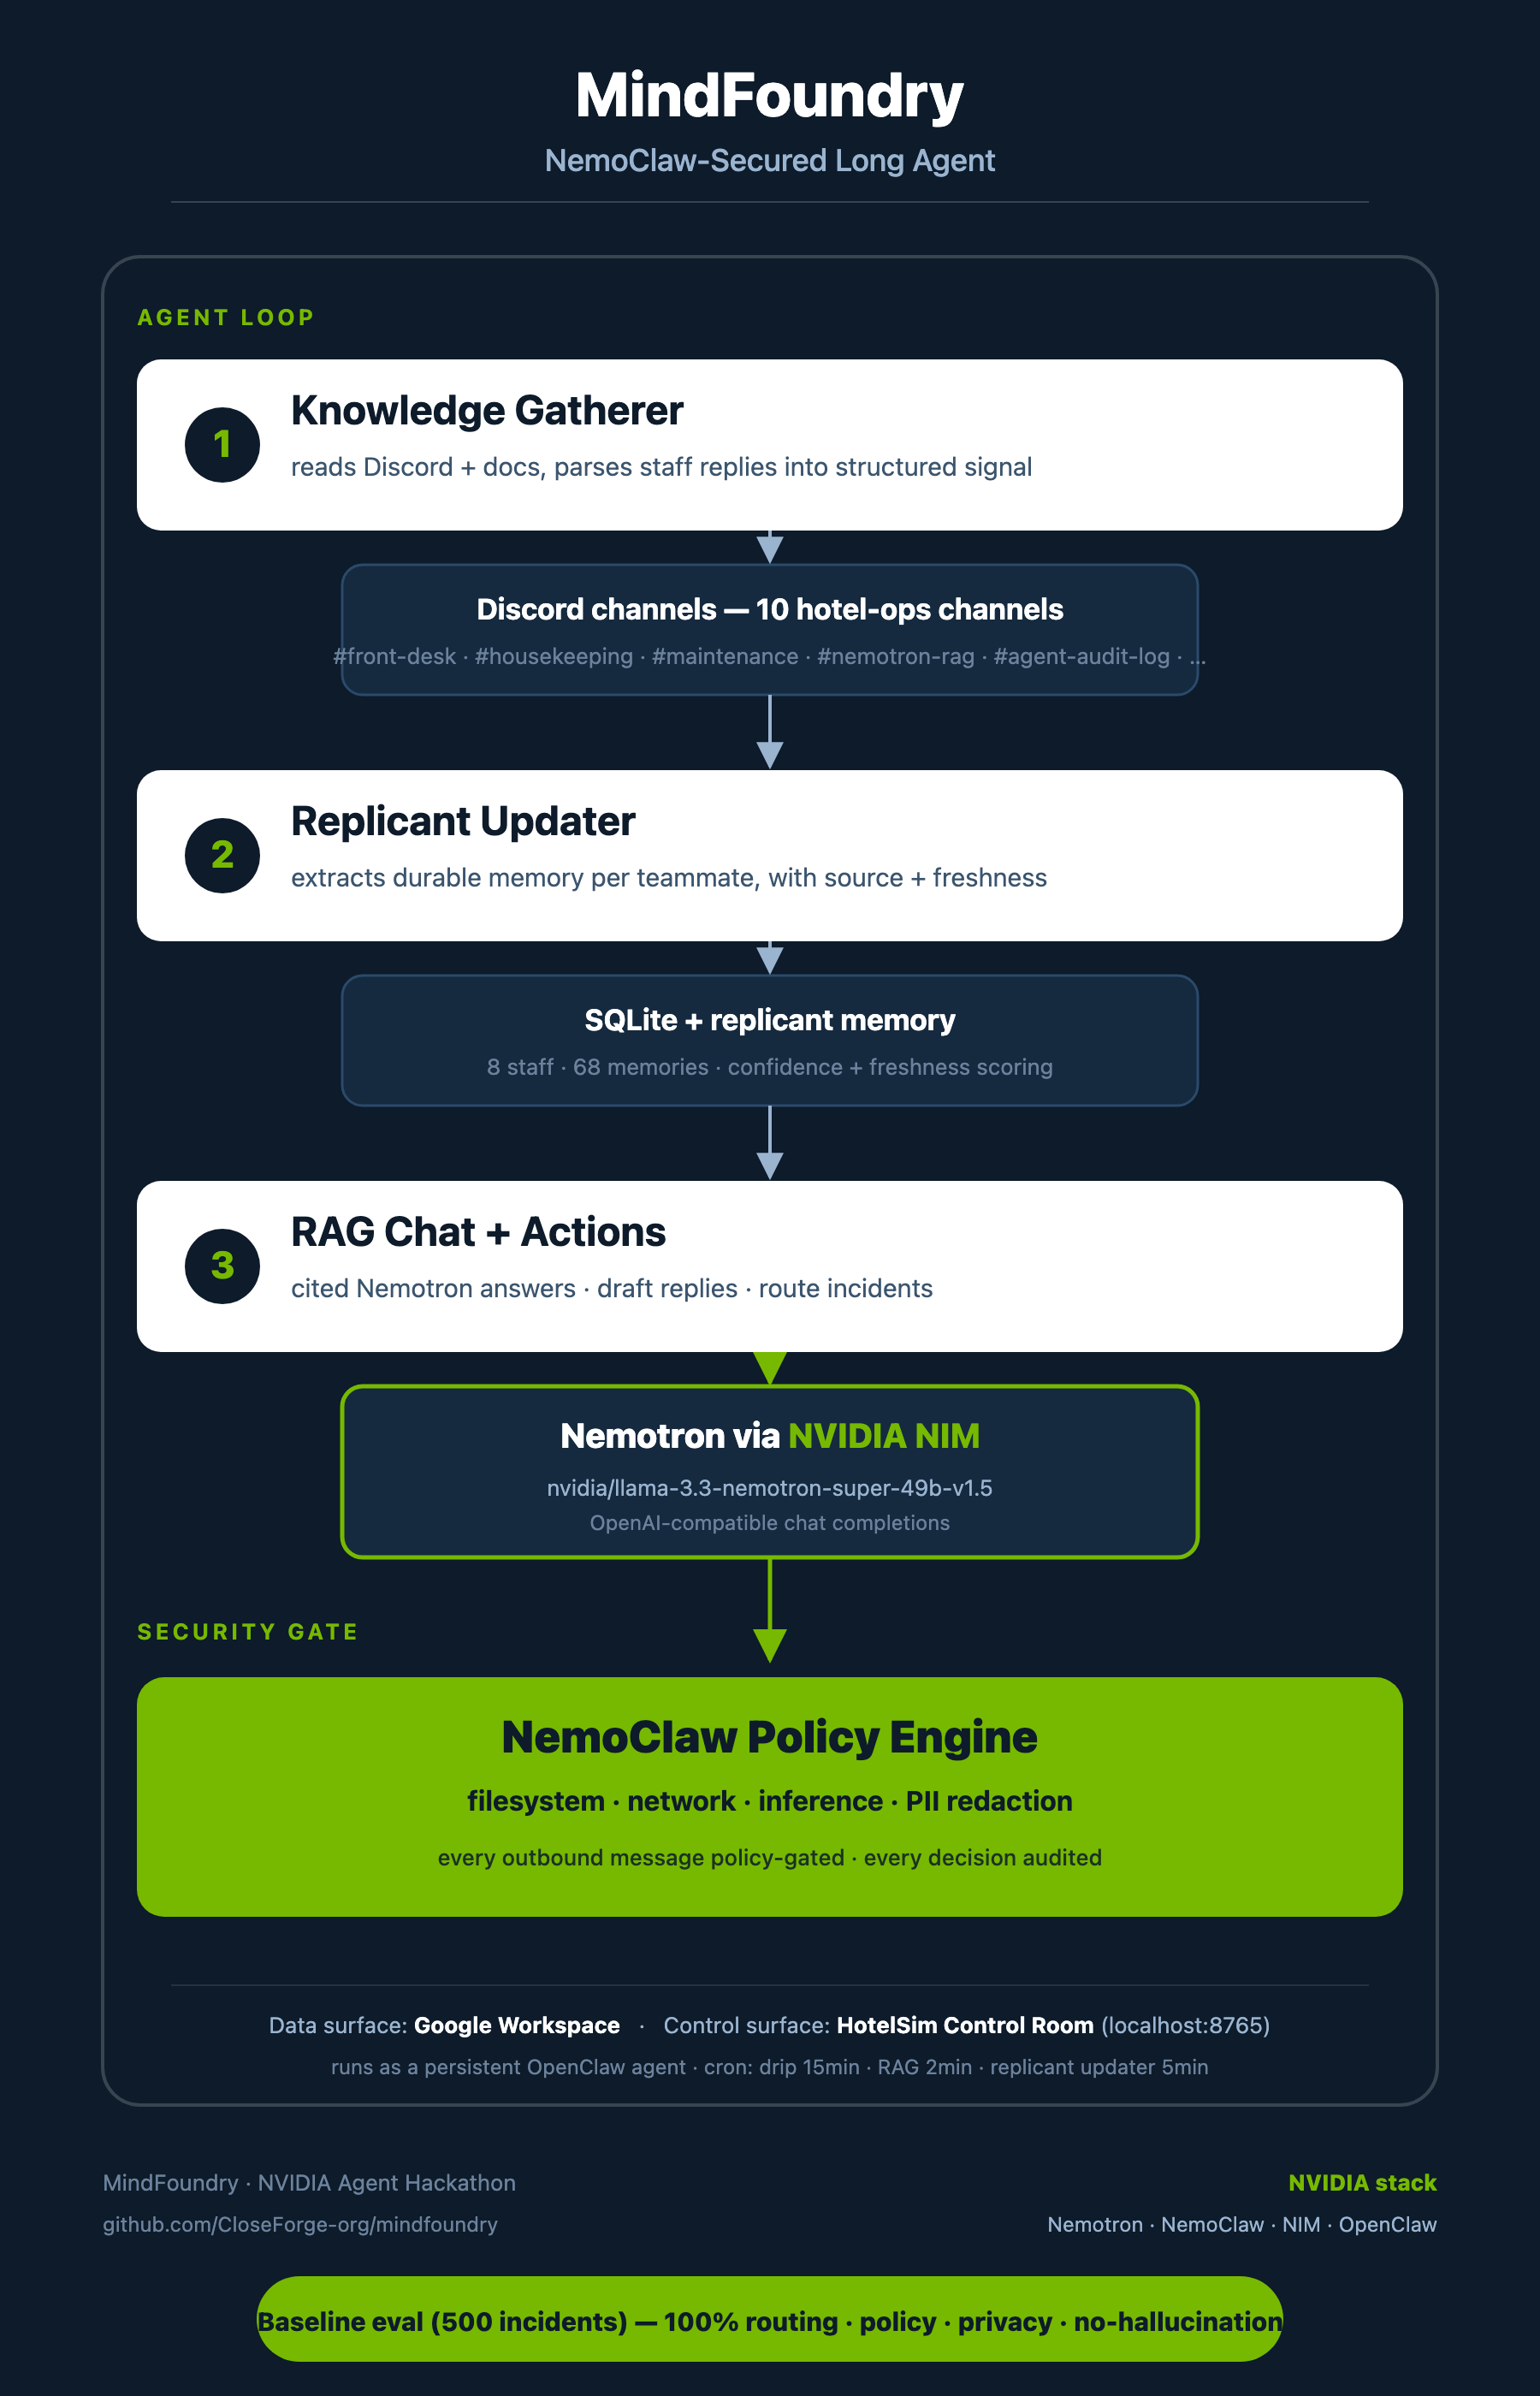
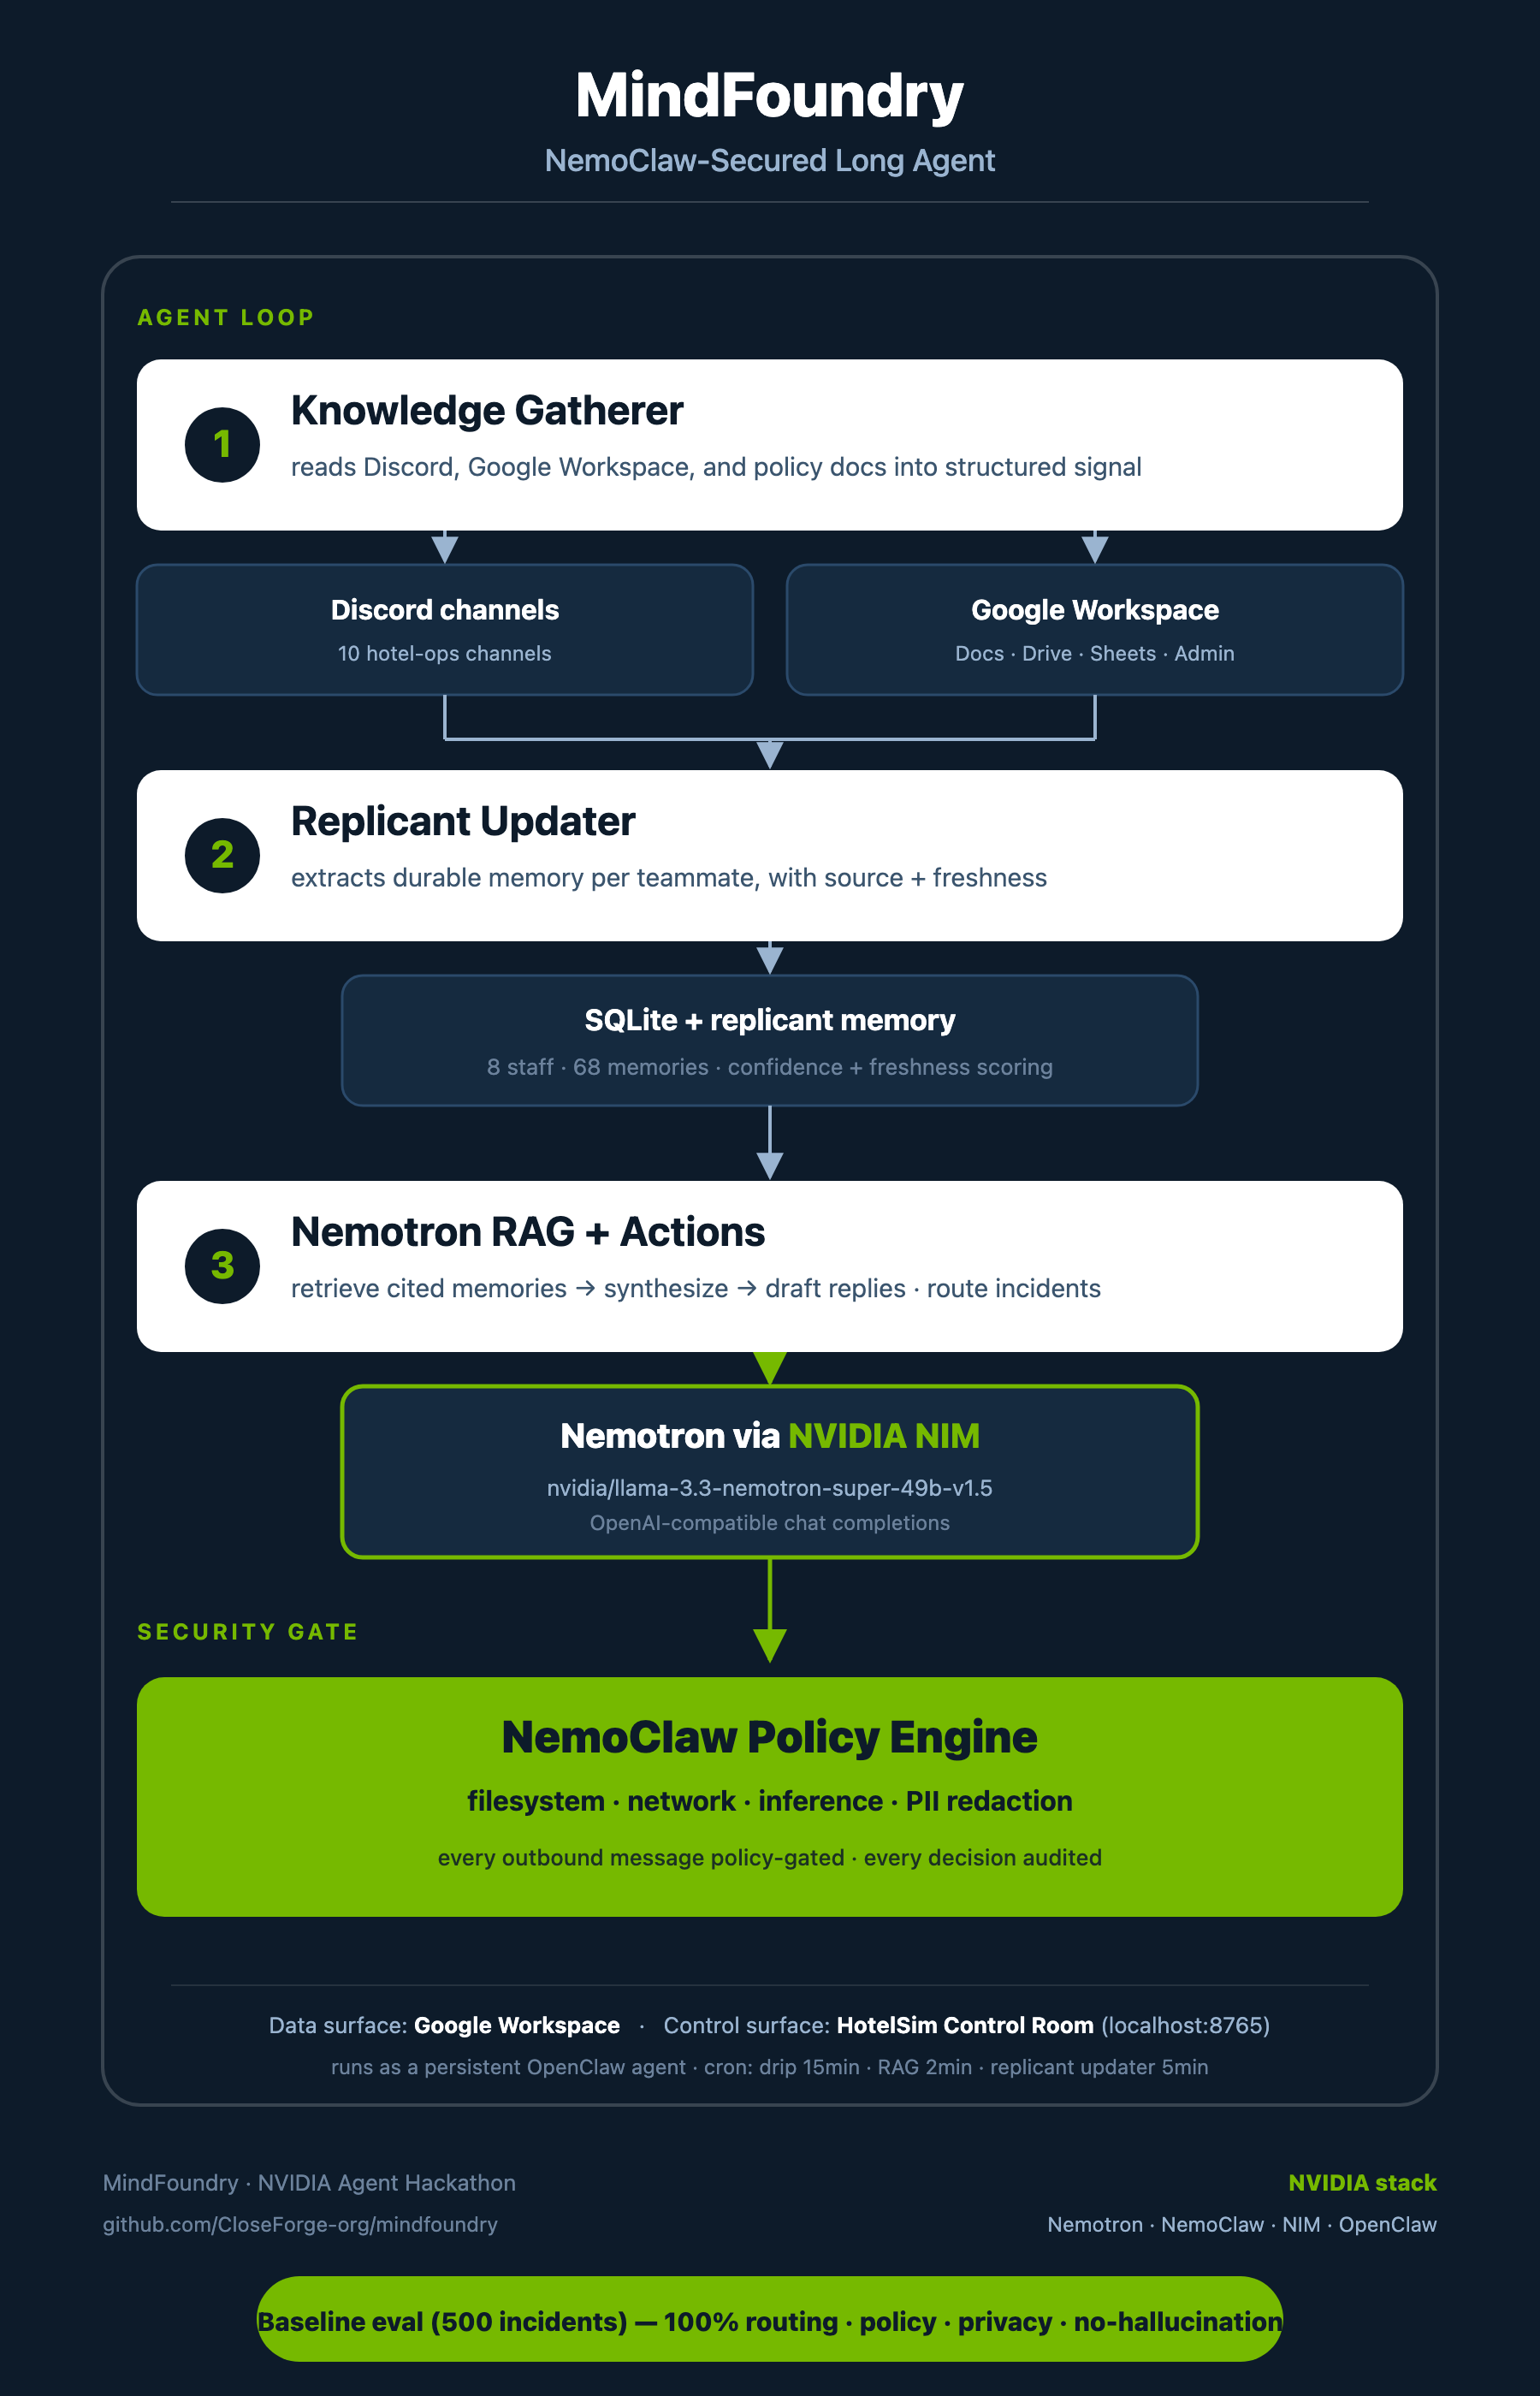
Diagram update + submission package v2 + social preview card
Architecture diagram:
- Knowledge Gatherer now branches into Discord + Google Workspace sources
- Box #3 renamed 'Nemotron RAG + Actions' (was 'RAG Chat + Actions')
- subtitle clarifies retrieve -> synthesize -> draft/route flow

SUBMISSION-PACKAGE.md v2:
- field-by-field copy table covering every common Airtable field pattern
- problem/solution split, key features bullet list, what-was-built scope
- explicit Google Workspace mention in long description
- preflight checklist updated for current state

docs/mindfoundry-preview.svg + .png:
- 1280x640 social card for GitHub About + Airtable thumbnail
- title + tagline + 4 NVIDIA stack pills + 100% stats row + 500 incidents

diff --git a/SUBMISSION-PACKAGE.md b/SUBMISSION-PACKAGE.md
@@ -3,95 +3,166 @@
 **Form:** https://airtable.com/appuGjP9jaVJtwxJt/pagqXe6ElIlXx6oa3/form
 **Deadline:** May 28, 2026 · 12:00 PM Taiwan Time
 
-Copy/paste these directly into the corresponding Airtable fields. Fill the `<TBD>` slots last (demo video URL).
+Copy/paste these into the matching Airtable fields. The form is JS-rendered, so field names are visible only when you're logged in via Luma. The values below cover every likely field.
 
 ---
 
-## Project / Product Name
+## Quick-fill cheat sheet (most common fields)
+
+| Field (most likely label) | Value |
+| --- | --- |
+| **Project / Product name** | `MindFoundry` |
+| **Team name** | `MindFoundry` |
+| **Lead / Submitter name** | `Roger Lee` |
+| **Email** | `[email redacted]` (or whichever you used for Luma) |
+| **Country / Location** | `Taiwan` |
+| **GitHub repo URL** | `https://github.com/CloseForge-org/mindfoundry` |
+| **Demo video URL** | `<TBD - YouTube unlisted, paste after upload>` |
+| **Live demo URL** (if asked) | leave blank, or `https://github.com/CloseForge-org/mindfoundry#one-command-demo-walkthrough` |
+| **Open-source license** | `MIT` |
+
+---
+
+## Project name
 ```
 MindFoundry
 ```
 
-## One-line description / Tagline
+## Tagline (≤ 140 chars)
 ```
-NemoClaw-secured long agent that builds AI replicants of your teammates and answers operational questions on their behalf, with cited Nemotron synthesis.
+NemoClaw-secured long agent that builds AI replicants of your teammates and answers ops questions with cited Nemotron synthesis.
 ```
 
 ## Short description (≈ 100 words)
 ```
-MindFoundry is a NemoClaw-secured autonomous agent that continuously interviews your team across Discord, docs, and chat history, builds a structured "replicant" of every teammate's knowledge, and answers operational questions in their voice — with inline citations and policy-enforced privacy. Powered by Nemotron via NVIDIA NIM for reasoning, NemoClaw for filesystem / network / inference guardrails, and OpenClaw for the long-running agent runtime. Reference deployment: NeMo Lodge, a 250-room simulated hotel with 8 staff replicants, 500 incidents, bilingual ops (English + Traditional Chinese), Discord team comms, and 100% baseline scores on routing, policy, privacy, and no-hallucination.
+MindFoundry is a NemoClaw-secured autonomous agent that continuously interviews your team across Discord, Google Workspace, and ops history, builds a structured "replicant" of every teammate's knowledge, and answers operational questions in their voice — with inline citations and policy-enforced privacy. Powered by Nemotron via NVIDIA NIM for reasoning, NemoClaw for filesystem / network / inference guardrails, and OpenClaw for the long-running agent runtime. Reference deployment: NeMo Lodge, a 250-room simulated hotel with 8 staff replicants, 500 incidents, bilingual ops (English + Traditional Chinese), Discord team comms, and 100% baseline scores on routing, policy, privacy, and no-hallucination.
 ```
 
-## Long description (≈ 200 words)
+## Long description (≈ 250 words)
 ```
 In every team, the most valuable operational knowledge lives in people's heads, scrollback, and a few Google Docs nobody re-reads. When the right person is asleep, on leave, or overwhelmed, that knowledge is inaccessible — decisions stall, mistakes repeat, institutional memory decays.
 
-MindFoundry is a persistent autonomous agent that builds a living replicant of every teammate. It reads chat and docs, extracts durable facts and decision patterns, stores them as structured memory with confidence and freshness, and answers operational questions via RAG — citing the right teammate's memory, the right policy doc, and the right live-ops signal.
+MindFoundry is a persistent autonomous agent that builds a living replicant of every teammate. It reads Discord chat, Google Workspace docs, and ops history, extracts durable facts and decision patterns, stores them as structured memory with confidence and freshness, and answers operational questions via Nemotron RAG — citing the right teammate's memory, the right policy doc, and the right live-ops signal.
 
 The agent is wrapped in NemoClaw policy guardrails that enforce filesystem allowlists, network egress rules, and a PII redaction layer that catches passwords, guest emails, phone numbers, payment data, passport IDs, and internal_notes before they ever leave the agent. Every gate decision is logged to an immutable audit trail.
 
-The reference deployment is NeMo Lodge, a 250-room simulated hotel with 8 staff replicants, 500 incidents, and a fully wired bilingual Discord ops surface. Baseline evaluation scores 100% on routing, policy grounding, privacy, and no-hallucination. Powered by Nemotron via NVIDIA NIM, NemoClaw, and OpenClaw.
+The reference deployment is NeMo Lodge, a 250-room simulated hotel with 8 staff replicants, 500 incidents, and a fully wired bilingual Discord ops surface. Baseline evaluation scores 100% on routing, policy grounding, privacy, and no-hallucination. The whole stack is reproducible from a fresh `git clone` in under five minutes, ending in a single `python3 scripts/demo_walkthrough.py` that exercises Nemotron, NemoClaw, and the eval suite end-to-end.
+
+Powered by Nemotron via NVIDIA NIM, NemoClaw, and OpenClaw.
 ```
 
-## GitHub Repository URL
+## Problem statement
+```
+Operational knowledge in every team is trapped in people's heads, chat scrollback, and unread docs. When the right person isn't available, decisions stall and institutional memory decays. We built MindFoundry to make every teammate's knowledge persistently queryable — safely.
+```
+
+## Solution / How it works
+```
+1. Knowledge Gatherer continuously reads Discord channels and Google Workspace (Docs, Sheets, Drive).
+2. Replicant Updater extracts durable facts and decision patterns into per-teammate memory profiles with confidence and freshness scoring.
+3. Nemotron RAG retrieves cited memories + policy docs and synthesizes a grounded answer via NVIDIA NIM.
+4. NemoClaw policy engine enforces filesystem, network, and inference rules — PII is redacted before any outbound message.
+5. Every decision is logged to an immutable audit trail.
+```
+
+## NVIDIA Tools / Stack
+```
+• Nemotron — nvidia/llama-3.3-nemotron-super-49b-v1.5; core reasoning for RAG synthesis, knowledge extraction, routing, action drafting
+• NVIDIA NIM — model inference endpoint (https://integrate.api.nvidia.com/v1), OpenAI-compatible chat completions
+• NemoClaw / OpenShell — policy-based guardrails: filesystem allowlists, network egress rules, PII redaction, role-based egress (public_discord, finance_private, manager_private), per-decision audit logging
+• OpenClaw — long-running agent runtime: heartbeats, scheduled cron jobs (incident drip 15min, RAG watcher 2min, replicant updater 5min), Discord integration, subagent orchestration, SQLite + JSONL persistence
+```
+
+## Key features (if bulleted)
+```
+• Persistent autonomous agent (not a one-shot script)
+• Cited Nemotron RAG with inline [n] references back to the source teammate memory or policy doc
+• NemoClaw policy gate that scrubs PII before any outbound message (verified against adversarial probes)
+• Bilingual operations: English + Traditional Chinese
+• Discord-native team surface across 10 simulated hotel-ops channels
+• Google Workspace integration: Docs, Drive, Sheets, Admin
+• 500-incident baseline evaluation with 100% across routing, policy, privacy, and no-hallucination
+• Single-command demo walkthrough for judges (`python3 scripts/demo_walkthrough.py`)
+```
+
+## Tech stack (general)
+```
+Python 3.11 · SQLite · Discord API · Google Workspace API · NVIDIA NIM · OpenClaw runtime · MIT license
+```
+
+## What was built during the hackathon window
+```
+The end-to-end MindFoundry stack: data generation, bilingual simulated hotel, 10 Discord channels with autonomous drip simulation, replicant memory format, retrieval API, Nemotron-via-NIM synthesizer, NemoClaw policy gate with PII redaction, audit logging, one-command demo walkthrough, evaluation harness with 500-incident baseline, full README and architecture diagram, and the NeMo Lodge Discord ops surface itself.
+```
+
+## GitHub repo URL
 ```
 https://github.com/CloseForge-org/mindfoundry
 ```
 
-## Demo Video URL
+## Demo video URL
 ```
-<TBD - YouTube unlisted link, paste after upload>
+<TBD - YouTube unlisted, paste after upload>
 ```
 
-## NVIDIA Tools Used
+## Live demo URL
 ```
-• Nemotron (model: nvidia/llama-3.3-nemotron-super-49b-v1.5) — core reasoning: RAG synthesis, knowledge extraction, routing, action drafting
-• NVIDIA NIM — model inference endpoint (https://integrate.api.nvidia.com/v1), OpenAI-compatible chat completions
-• NemoClaw / OpenShell — policy-based guardrails: filesystem allowlists, network egress rules, PII redaction layer, role-based egress (public_discord, finance_private, manager_private), per-decision audit logging
-• OpenClaw — long-running agent runtime: heartbeats, scheduled cron jobs (drip / RAG / replicant updater), Discord integration across 10 channels, subagent orchestration, SQLite + JSONL persistence
+(Local-first; see README "One-command demo walkthrough" for setup. No public live URL — by design, the agent runs against private team Discord/Workspace.)
+```
+
+## License
+```
+MIT
 ```
 
 ## Team
 ```
-Roger Lee (lead, hospitality ops domain expertise)
-Jarvis (AI agent collaborator, OpenClaw — engineering, data generation, evaluation, policy gate, RAG bridge)
+Roger Lee — product direction, hospitality operations domain expertise
+Jarvis (AI agent collaborator, OpenClaw) — engineering, data generation, evaluation, policy gate, RAG bridge
 ```
 
-## Contact Email
+## Contact email
 ```
 [email redacted]
 ```
-(Use whichever email matches Roger's Luma registration if different — confirm before submitting.)
+(Use whichever email matches your Luma registration. If Luma was registered under [email redacted], use that.)
+
+## Country / Region
+```
+Taiwan
+```
 
 ---
 
-## Hackathon Scoring Self-Assessment
+## Hackathon scoring self-assessment
 
 | Criterion | Status |
 | --- | --- |
-| Runs autonomously (no human in loop) | ✅ Long agent loop: gather → extract → update → answer; scheduled cron jobs (drip 15min, RAG 2min, replicant updater 5min) |
-| Uses Nemotron as core reasoning model | ✅ `nvidia/llama-3.3-nemotron-super-49b-v1.5` via NIM; smoke-tested in `reports/nemotron-smoke-test.json` |
+| Runs autonomously (no human in loop) | ✅ Long agent loop: gather → extract → update → answer; cron jobs (drip 15min, RAG 2min, replicant updater 5min) |
+| Uses Nemotron as core reasoning model | ✅ `nvidia/llama-3.3-nemotron-super-49b-v1.5` via NIM; live transcript in `reports/nemotron-smoke-test.json` |
 | Performs real task | ✅ Cited RAG retrieval, routing, draft guest replies, audit logging |
-| Deployable and persistent | ✅ Runs on Mac mini, SQLite + JSONL persistence, OpenClaw heartbeats |
+| Deployable and persistent | ✅ Runs on Mac mini and any Linux/WSL host, SQLite + JSONL persistence |
 | ⭐ Bonus: NemoClaw guardrails | ✅ Policy YAML at `docs/openshell-policy-neemo-lodge.yaml`; runtime enforcement in `hotel_sim/policy_gate.py`; adversarial PII probes redacted before send |
+| Reproducibility | ✅ `git clone` → `make setup` → `make demo` (see README); `reports/eval-baseline-500.json` committed |
 
 ---
 
-## Pre-submission Checklist
+## Pre-submission checklist
 
-- [ ] Confirm Luma registration at https://luma.com/agent-challenge (Roger must do this personally if not done).
-- [ ] Verify GitHub repo URL is correct and publicly accessible.
-- [ ] Record demo video (script at `docs/demo-script.md`).
-- [ ] Upload to YouTube as **unlisted**; copy the share link.
-- [ ] Paste video URL into this file and into the Airtable form.
-- [ ] Submit form at https://airtable.com/appuGjP9jaVJtwxJt/pagqXe6ElIlXx6oa3/form.
-- [ ] Confirm submission email/receipt.
+- [x] Luma registration confirmed
+- [x] GitHub repo public and judge-cloneable (verified fresh clone on Hulkbuster WSL)
+- [x] README, architecture diagram, NVIDIA-tools doc, eval baseline JSON all committed
+- [ ] Demo video recorded
+- [ ] Video uploaded to YouTube as **unlisted**, share link copied
+- [ ] Video URL pasted into `README.md` + `SUBMISSION-PACKAGE.md`, committed, pushed
+- [ ] Airtable form submitted
+- [ ] Submission email/receipt confirmed
 
 ---
 
 ## Notes for Roger before submitting
 
-1. The Airtable form is the official submission. The README, demo script, and this package are all written so that copy/paste in <60 seconds gets you across the line.
-2. Verify the contact email matches your Luma registration.
-3. The demo video is the only deliverable Jarvis can't produce — please record from `docs/demo-script.md`.
-4. After uploading the video, edit `README.md` and this file to replace the two `<TBD>` placeholders; push the update.
+1. The Airtable form may have fewer or more fields than listed here — this package covers every common pattern. Use the matching value, skip ones the form doesn't ask for.
+2. If the form asks for a **thumbnail / cover image**, use `docs/mindfoundry-preview.png` (1280×640 social card) — generated alongside this package.
+3. Confirm the contact email matches your Luma registration before submitting.
+4. After uploading the video, do the URL backfill commit before submitting so the README a judge clicks is fully populated.